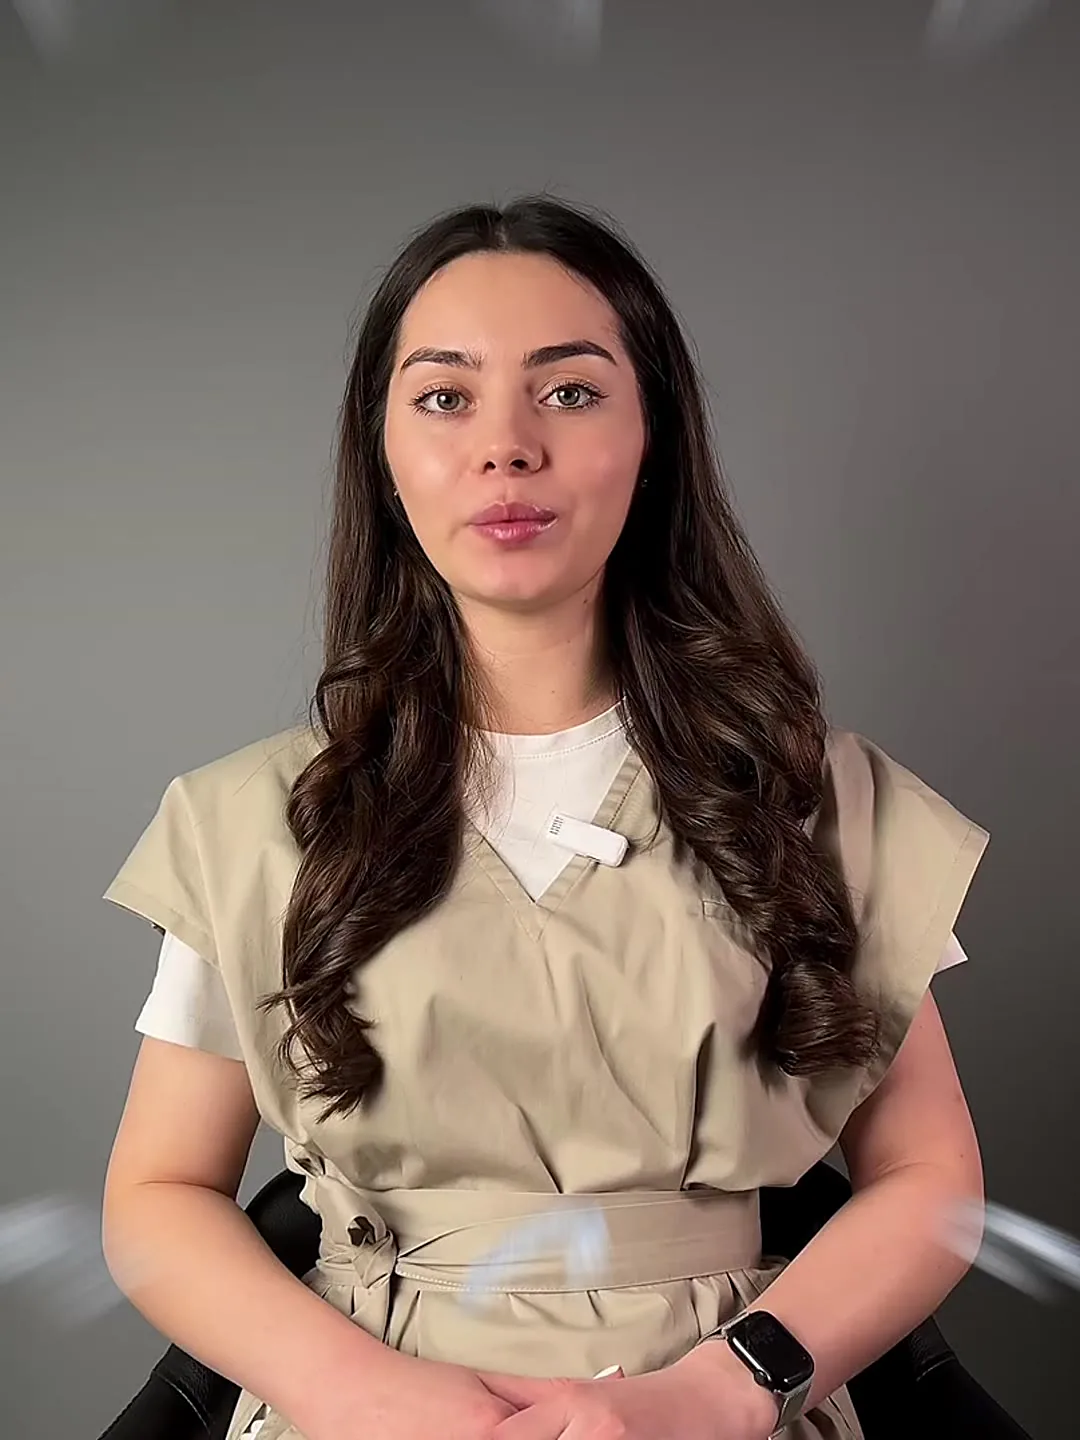
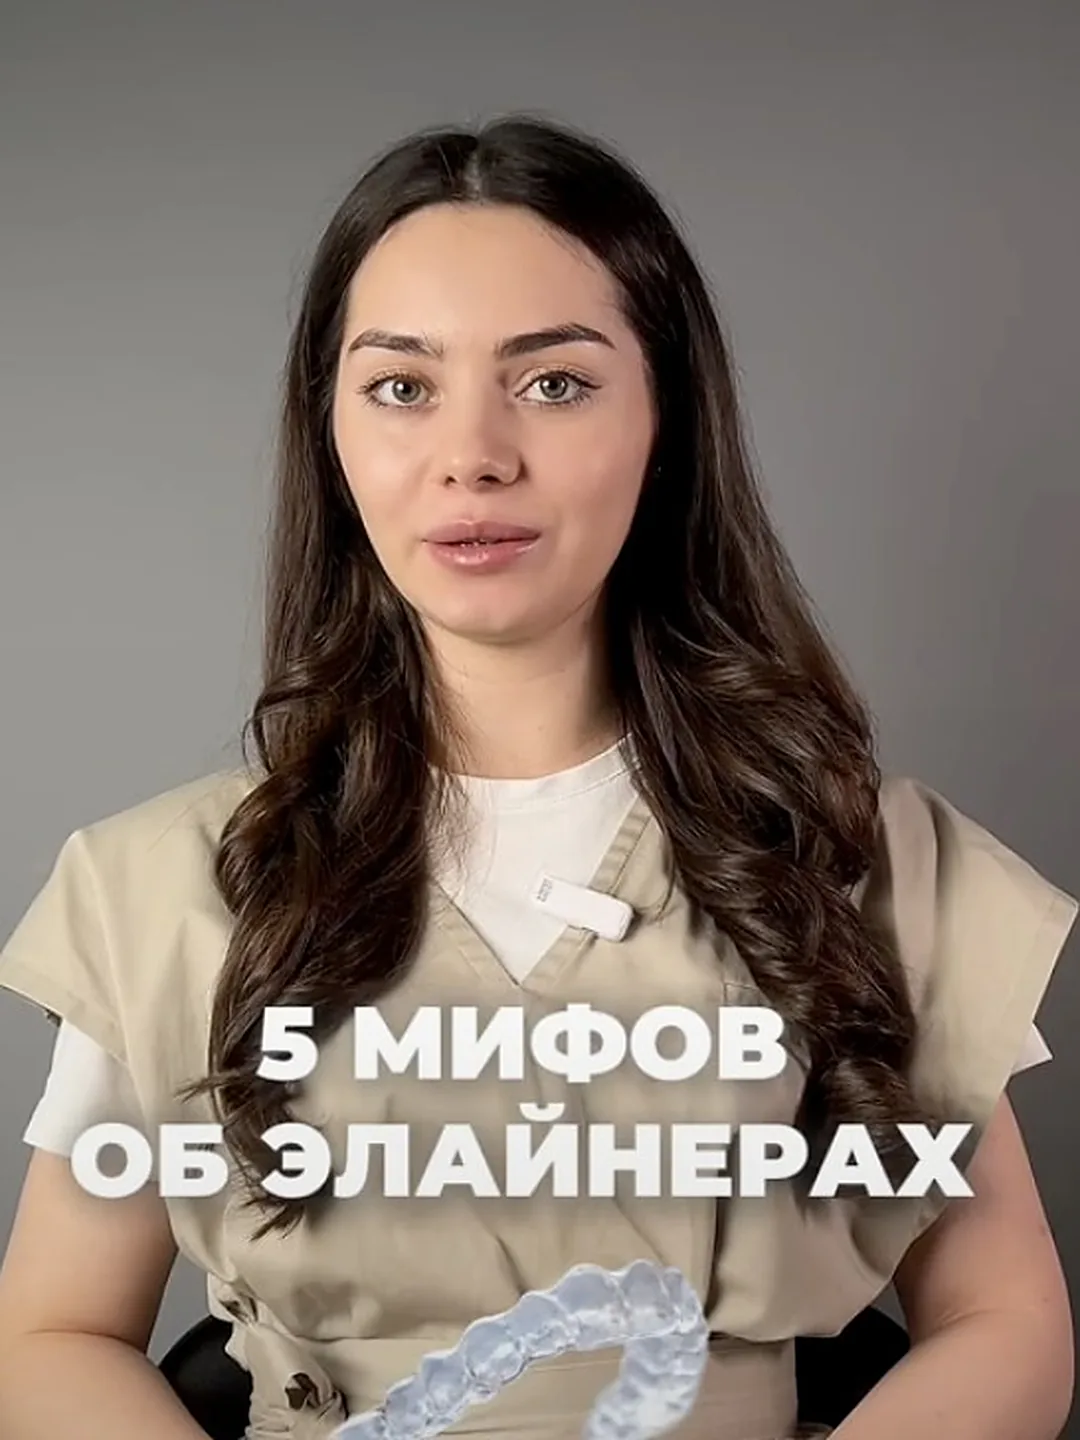
Real covers for Krasnov/hair-loss/aligners/backstage-finance, credit cleanup, trend renames
- Replace covers with the real supplied stop-frames for: "Бэкстейдж,
  Нескучные финансы", "Сергей Краснов" (long-blocked — now resolved),
  "Почему у тебя выпадают волосы", and "5 мифов об элайнерах"
  (long-blocked — now resolved).
- Update the "Почему у тебя выпадают волосы" video link to the corrected
  rutube URL supplied alongside its new cover.
- format-expert.html: remove the "Бизнес-мероприятие" credit line from
  the Александр Афанасьев and Сергей Краснов cards.
- format-trends.html: rename "Я плохая, ты хороший" -> "Тренд Я плохая,
  ты хороший"; rename the last card "Трендовый ролик для стоматологов"
  -> "Тренд для лектора стоматологии".

Full re-audit (headless Chromium, all 8 pages): no console errors, no
failed requests, no broken links/images.

Claude-Session: https://claude.ai/code/session_01A56WMZLcPP2u3y7nqKk2q7

diff --git a/site/format-trends.html b/site/format-trends.html
@@ -101,11 +101,11 @@
           <h2>Виниры</h2>
           <p>Стоматология</p>
         </article>
-    <article class="project-card reveal" style="--card-a:#26211d;--card-b:#5a4a38" tabindex="0" role="button" aria-label="Смотреть видео: Я плохая, ты хороший" data-video="https://rutube.ru/shorts/49fa7bc4ababb4f07b7ddffc5f3fa181/">
+    <article class="project-card reveal" style="--card-a:#26211d;--card-b:#5a4a38" tabindex="0" role="button" aria-label="Смотреть видео: Тренд Я плохая, ты хороший" data-video="https://rutube.ru/shorts/49fa7bc4ababb4f07b7ddffc5f3fa181/">
           <picture><source srcset="assets/images/projects/trend-dentist-chair-woman.webp" type="image/webp"><img class="project-card__art" decoding="async" src="assets/images/projects/trend-dentist-chair-woman.jpg" alt="" loading="lazy"></picture>
           <span class="project-card__scrim" aria-hidden="true"></span>
           <span class="project-card__play" aria-hidden="true"><svg width="18" height="18" viewBox="0 0 24 24" fill="currentColor"><path d="M8 5v14l11-7Z"/></svg></span>
-          <h2>Я плохая, ты хороший</h2>
+          <h2>Тренд Я плохая, ты хороший</h2>
         </article>
     <article class="project-card reveal" style="--card-a:#1c1414;--card-b:#7a2020" tabindex="0" role="button" aria-label="Смотреть видео: Креативный ролик, Кто ассистент" data-video="https://rutube.ru/shorts/a5d0692eb3b99b85beb5a8b4ce40df8e/">
           <picture><source srcset="assets/images/projects/trend-assistant-cleanup.webp" type="image/webp"><img class="project-card__art" decoding="async" src="assets/images/projects/trend-assistant-cleanup.jpg" alt="" loading="lazy"></picture>
@@ -145,11 +145,11 @@
           <span class="project-card__play" aria-hidden="true"><svg width="18" height="18" viewBox="0 0 24 24" fill="currentColor"><path d="M8 5v14l11-7Z"/></svg></span>
           <h2>Пахнет работой</h2>
         </article>
-    <article class="project-card reveal" style="--card-a:#241d16;--card-b:#6b5238" tabindex="0" role="button" aria-label="Смотреть видео: Трендовый ролик для стоматологов" data-video="https://rutube.ru/shorts/034f56c211c0ac076b373932ca804456/">
+    <article class="project-card reveal" style="--card-a:#241d16;--card-b:#6b5238" tabindex="0" role="button" aria-label="Смотреть видео: Тренд для лектора стоматологии" data-video="https://rutube.ru/shorts/034f56c211c0ac076b373932ca804456/">
           <picture><source srcset="assets/images/projects/trend-dentist-office-talk.webp" type="image/webp"><img class="project-card__art" decoding="async" src="assets/images/projects/trend-dentist-office-talk.jpg" alt="" loading="lazy"></picture>
           <span class="project-card__scrim" aria-hidden="true"></span>
           <span class="project-card__play" aria-hidden="true"><svg width="18" height="18" viewBox="0 0 24 24" fill="currentColor"><path d="M8 5v14l11-7Z"/></svg></span>
-          <h2>Трендовый ролик для стоматологов</h2>
+          <h2>Тренд для лектора стоматологии</h2>
         </article>
 
   </div>

diff --git a/site/format-expert.html b/site/format-expert.html
@@ -103,7 +103,6 @@
           <span class="project-card__play" aria-hidden="true"><svg width="18" height="18" viewBox="0 0 24 24" fill="currentColor"><path d="M8 5v14l11-7Z"/></svg></span>
           <h2>Александр Афанасьев</h2>
           <p>Нескучные финансы</p>
-          <p class="project-card__credit">Бизнес-мероприятие</p>
         </article>
     <article class="project-card reveal" style="--card-a:#1c1414;--card-b:#7a2020" tabindex="0" role="button" aria-label="Смотреть видео: Сергей Краснов, Нескучные финансы" data-video="https://rutube.ru/shorts/4d0e86de15b5d0f73e06e793ad45f5fd/">
           <picture><source srcset="assets/images/projects/krasnov-finance-armchair.webp" type="image/webp"><img class="project-card__art" decoding="async" src="assets/images/projects/krasnov-finance-armchair.jpg" alt="" loading="lazy"></picture>
@@ -111,7 +110,6 @@
           <span class="project-card__play" aria-hidden="true"><svg width="18" height="18" viewBox="0 0 24 24" fill="currentColor"><path d="M8 5v14l11-7Z"/></svg></span>
           <h2>Сергей Краснов</h2>
           <p>Нескучные финансы</p>
-          <p class="project-card__credit">Бизнес-мероприятие</p>
         </article>
     <article class="project-card reveal" style="--card-a:#26211d;--card-b:#5a4a38" tabindex="0" role="button" aria-label="Смотреть видео: Как создать апикальный упор" data-video="https://rutube.ru/shorts/649d6afcda7e806f16c482cb967b85fc/">
           <picture><source srcset="assets/images/projects/apical-stop-hook.webp" type="image/webp"><img class="project-card__art" decoding="async" src="assets/images/projects/apical-stop-hook.jpg" alt="" loading="lazy"></picture>
@@ -163,7 +161,7 @@
           <h2>Чувствительность зубов</h2>
           <p>Стоматолог ортопед</p>
         </article>
-    <article class="project-card reveal" style="--card-a:#1c1a16;--card-b:#7a5a2e" tabindex="0" role="button" aria-label="Смотреть видео: Почему у тебя выпадают волосы, Косметолог" data-video="https://rutube.ru/shorts/3d8222999d1f5382f916aff0e4b46123/">
+    <article class="project-card reveal" style="--card-a:#1c1a16;--card-b:#7a5a2e" tabindex="0" role="button" aria-label="Смотреть видео: Почему у тебя выпадают волосы, Косметолог" data-video="https://rutube.ru/shorts/cdd74bde4054b0195682cc97633eaeeb/">
           <picture><source srcset="assets/images/projects/hair-loss-cosmetolog.webp" type="image/webp"><img class="project-card__art" decoding="async" src="assets/images/projects/hair-loss-cosmetolog.jpg" alt="" loading="lazy"></picture>
           <span class="project-card__scrim" aria-hidden="true"></span>
           <span class="project-card__play" aria-hidden="true"><svg width="18" height="18" viewBox="0 0 24 24" fill="currentColor"><path d="M8 5v14l11-7Z"/></svg></span>
